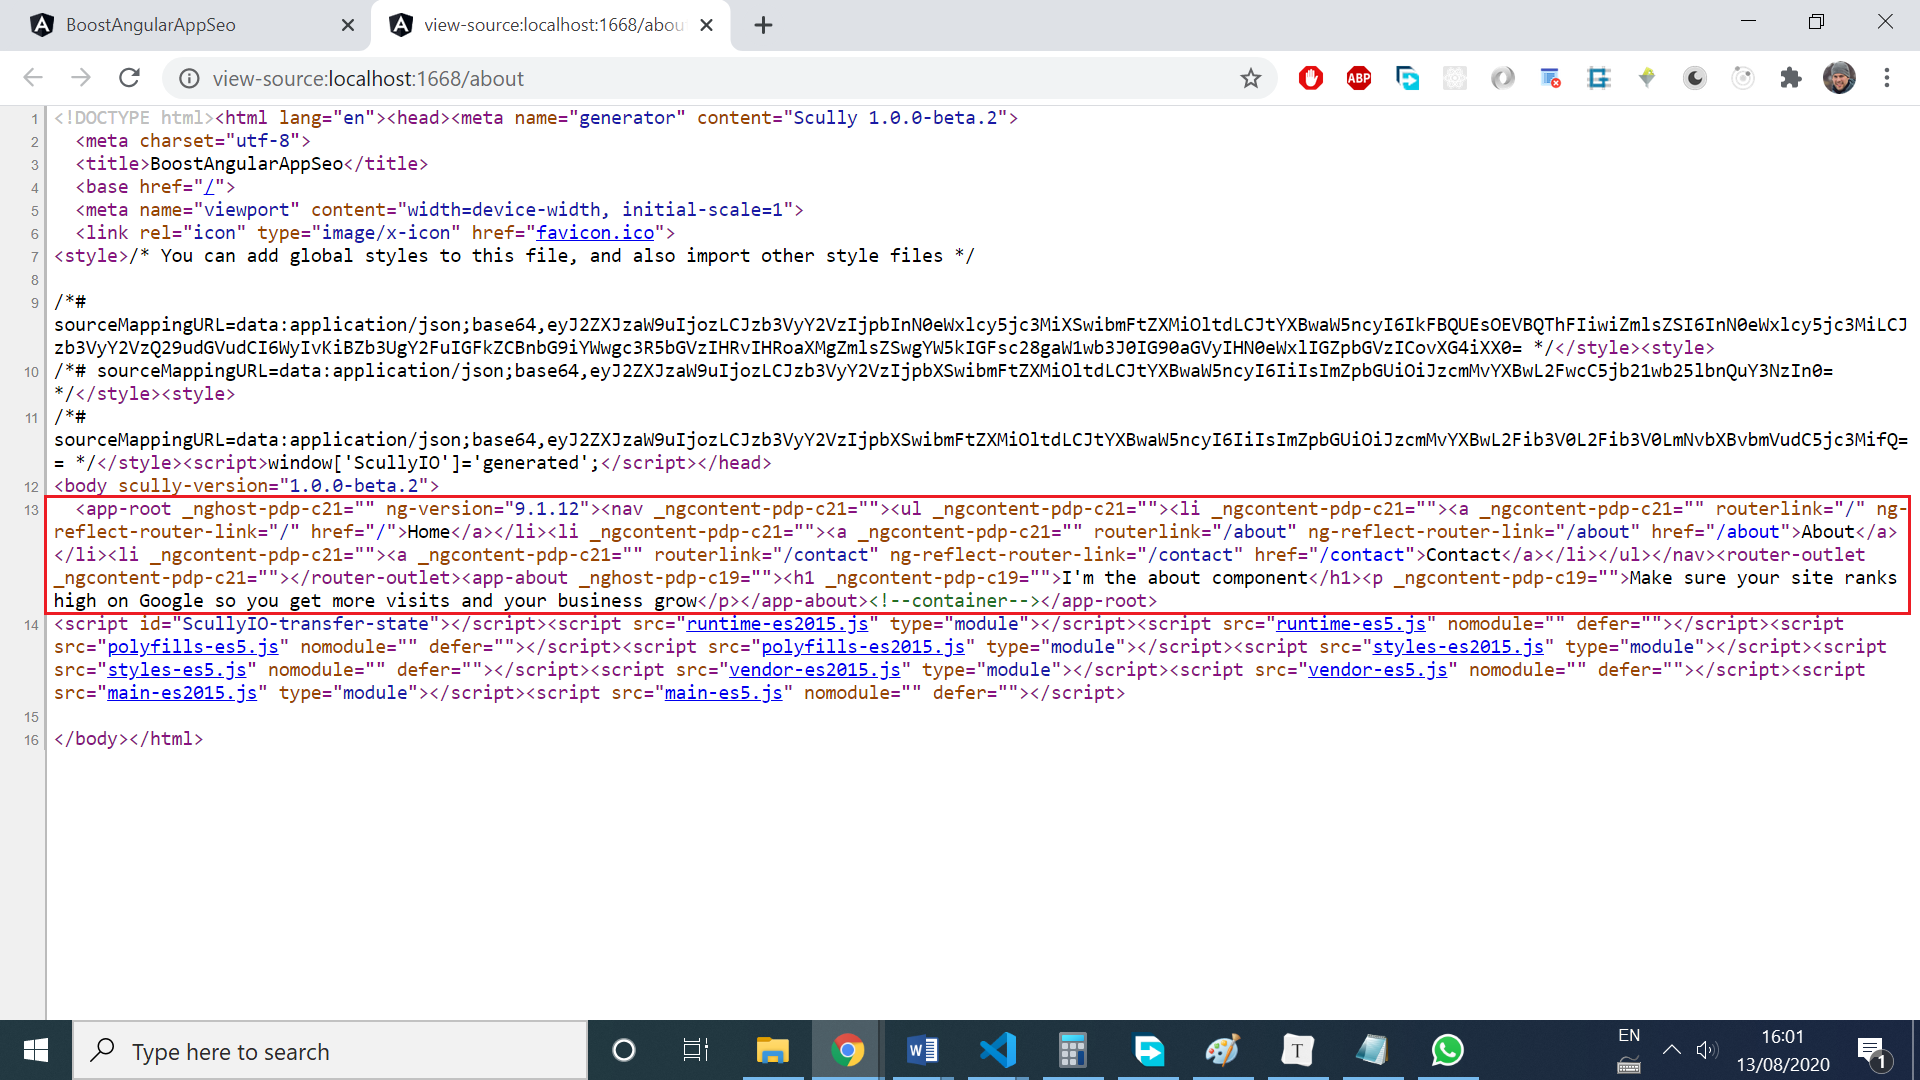
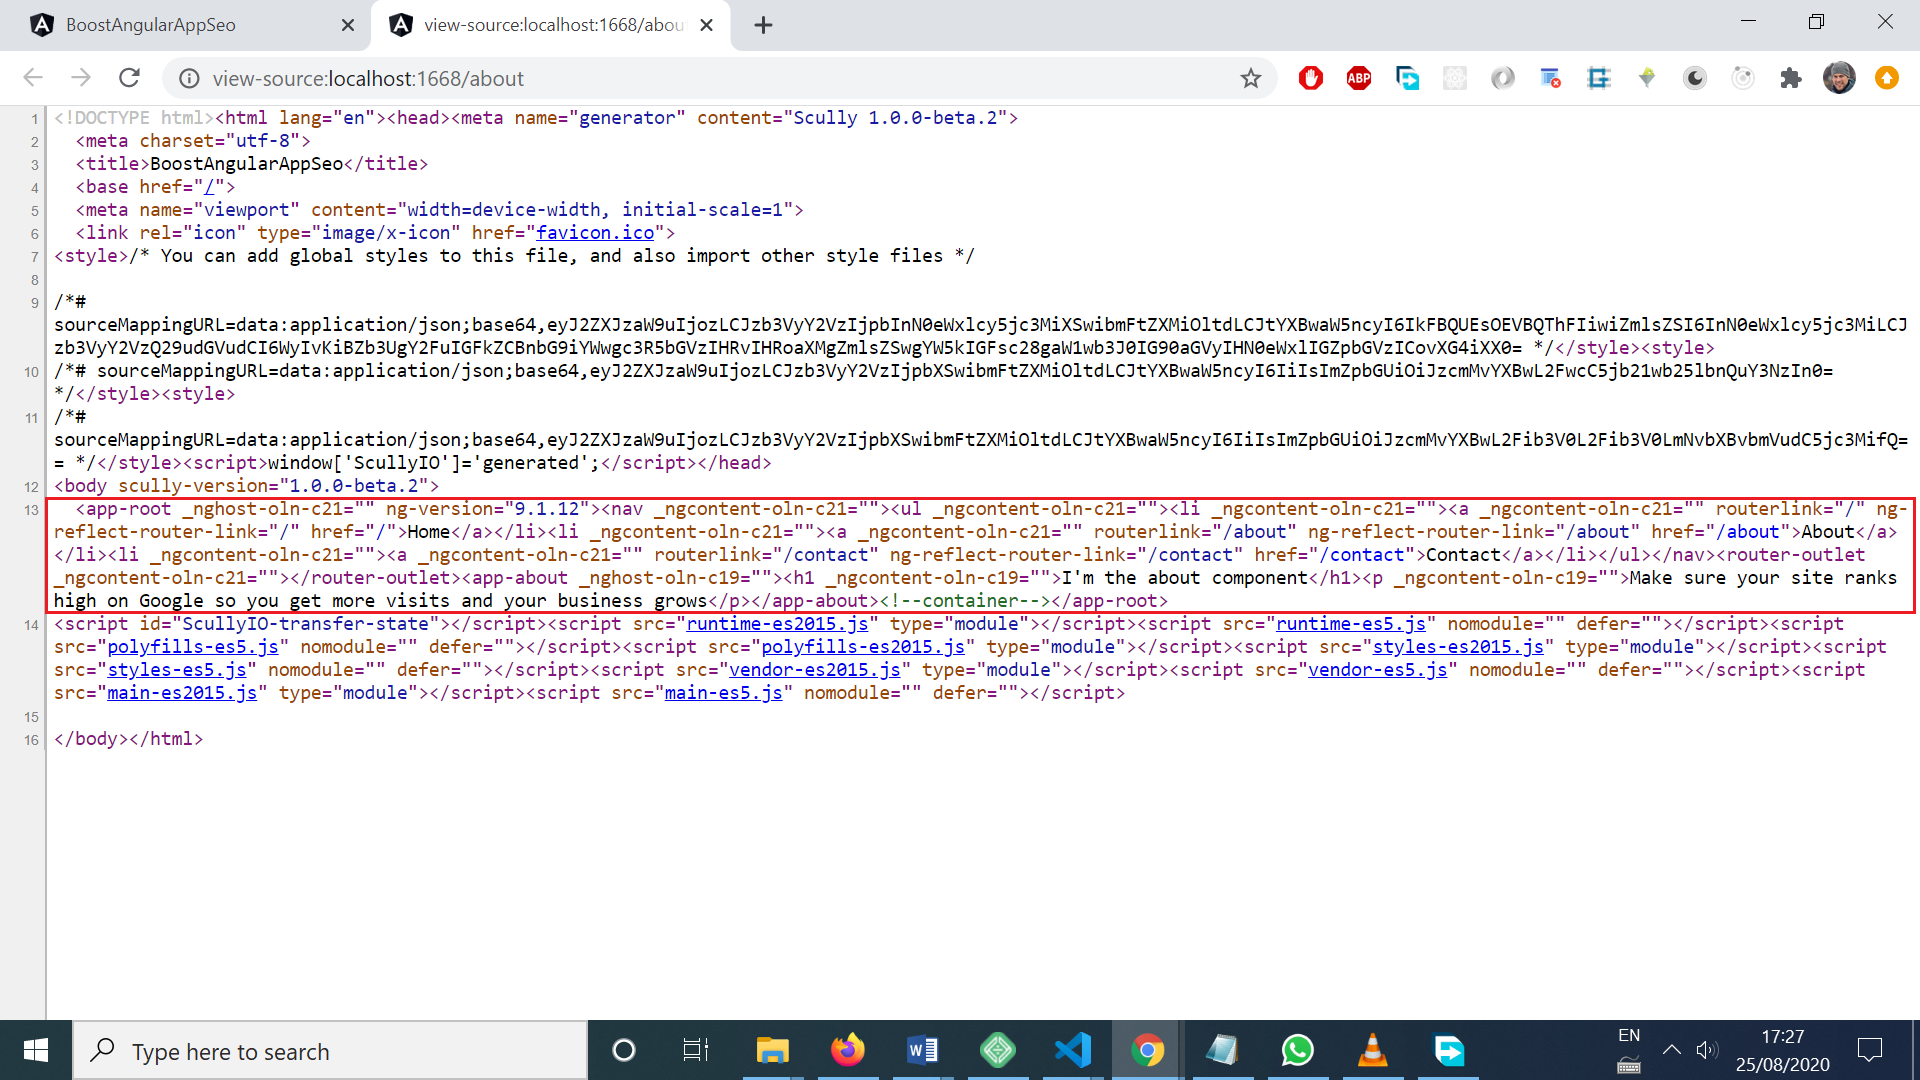
change typo in about component

diff --git a/README.md b/README.md
@@ -139,7 +139,7 @@ export class AppRoutingModule { }
 
 <h1>I'm the about component</h1>
 <p>Make sure your site ranks high on Google so you get more visits
- and your business grow</p>
+ and your business grows</p>
 
 ```
 
